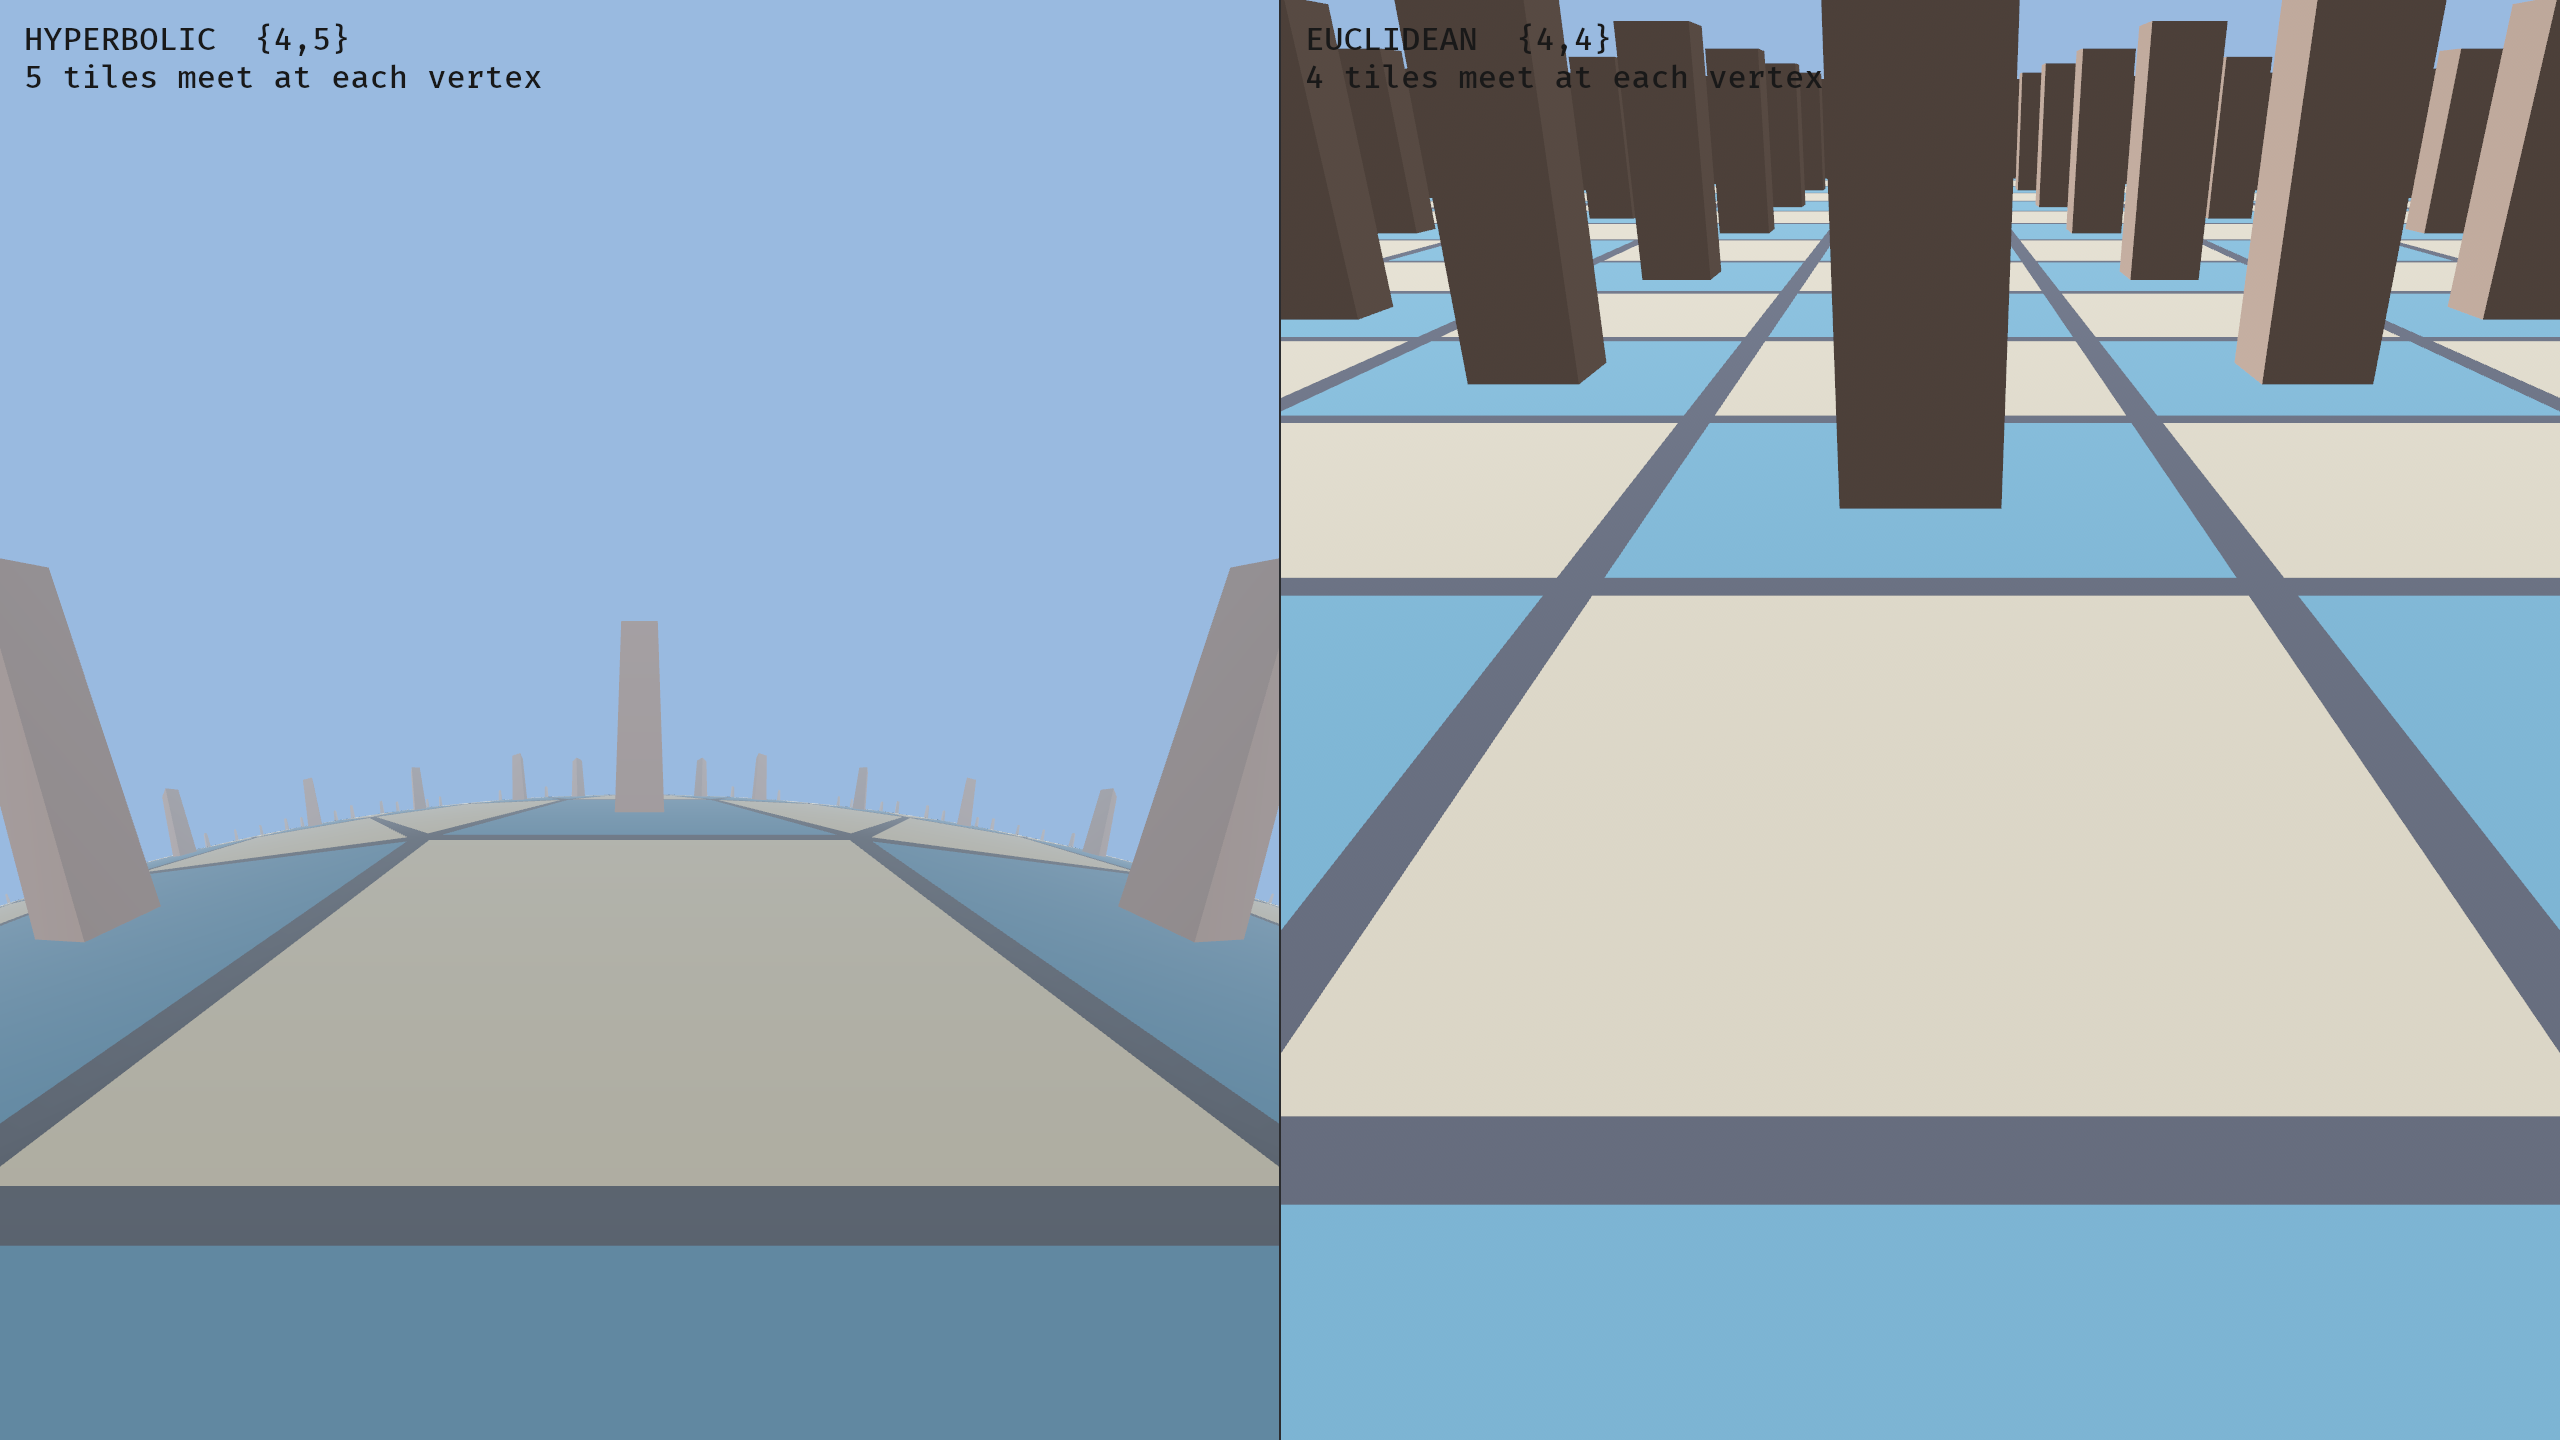
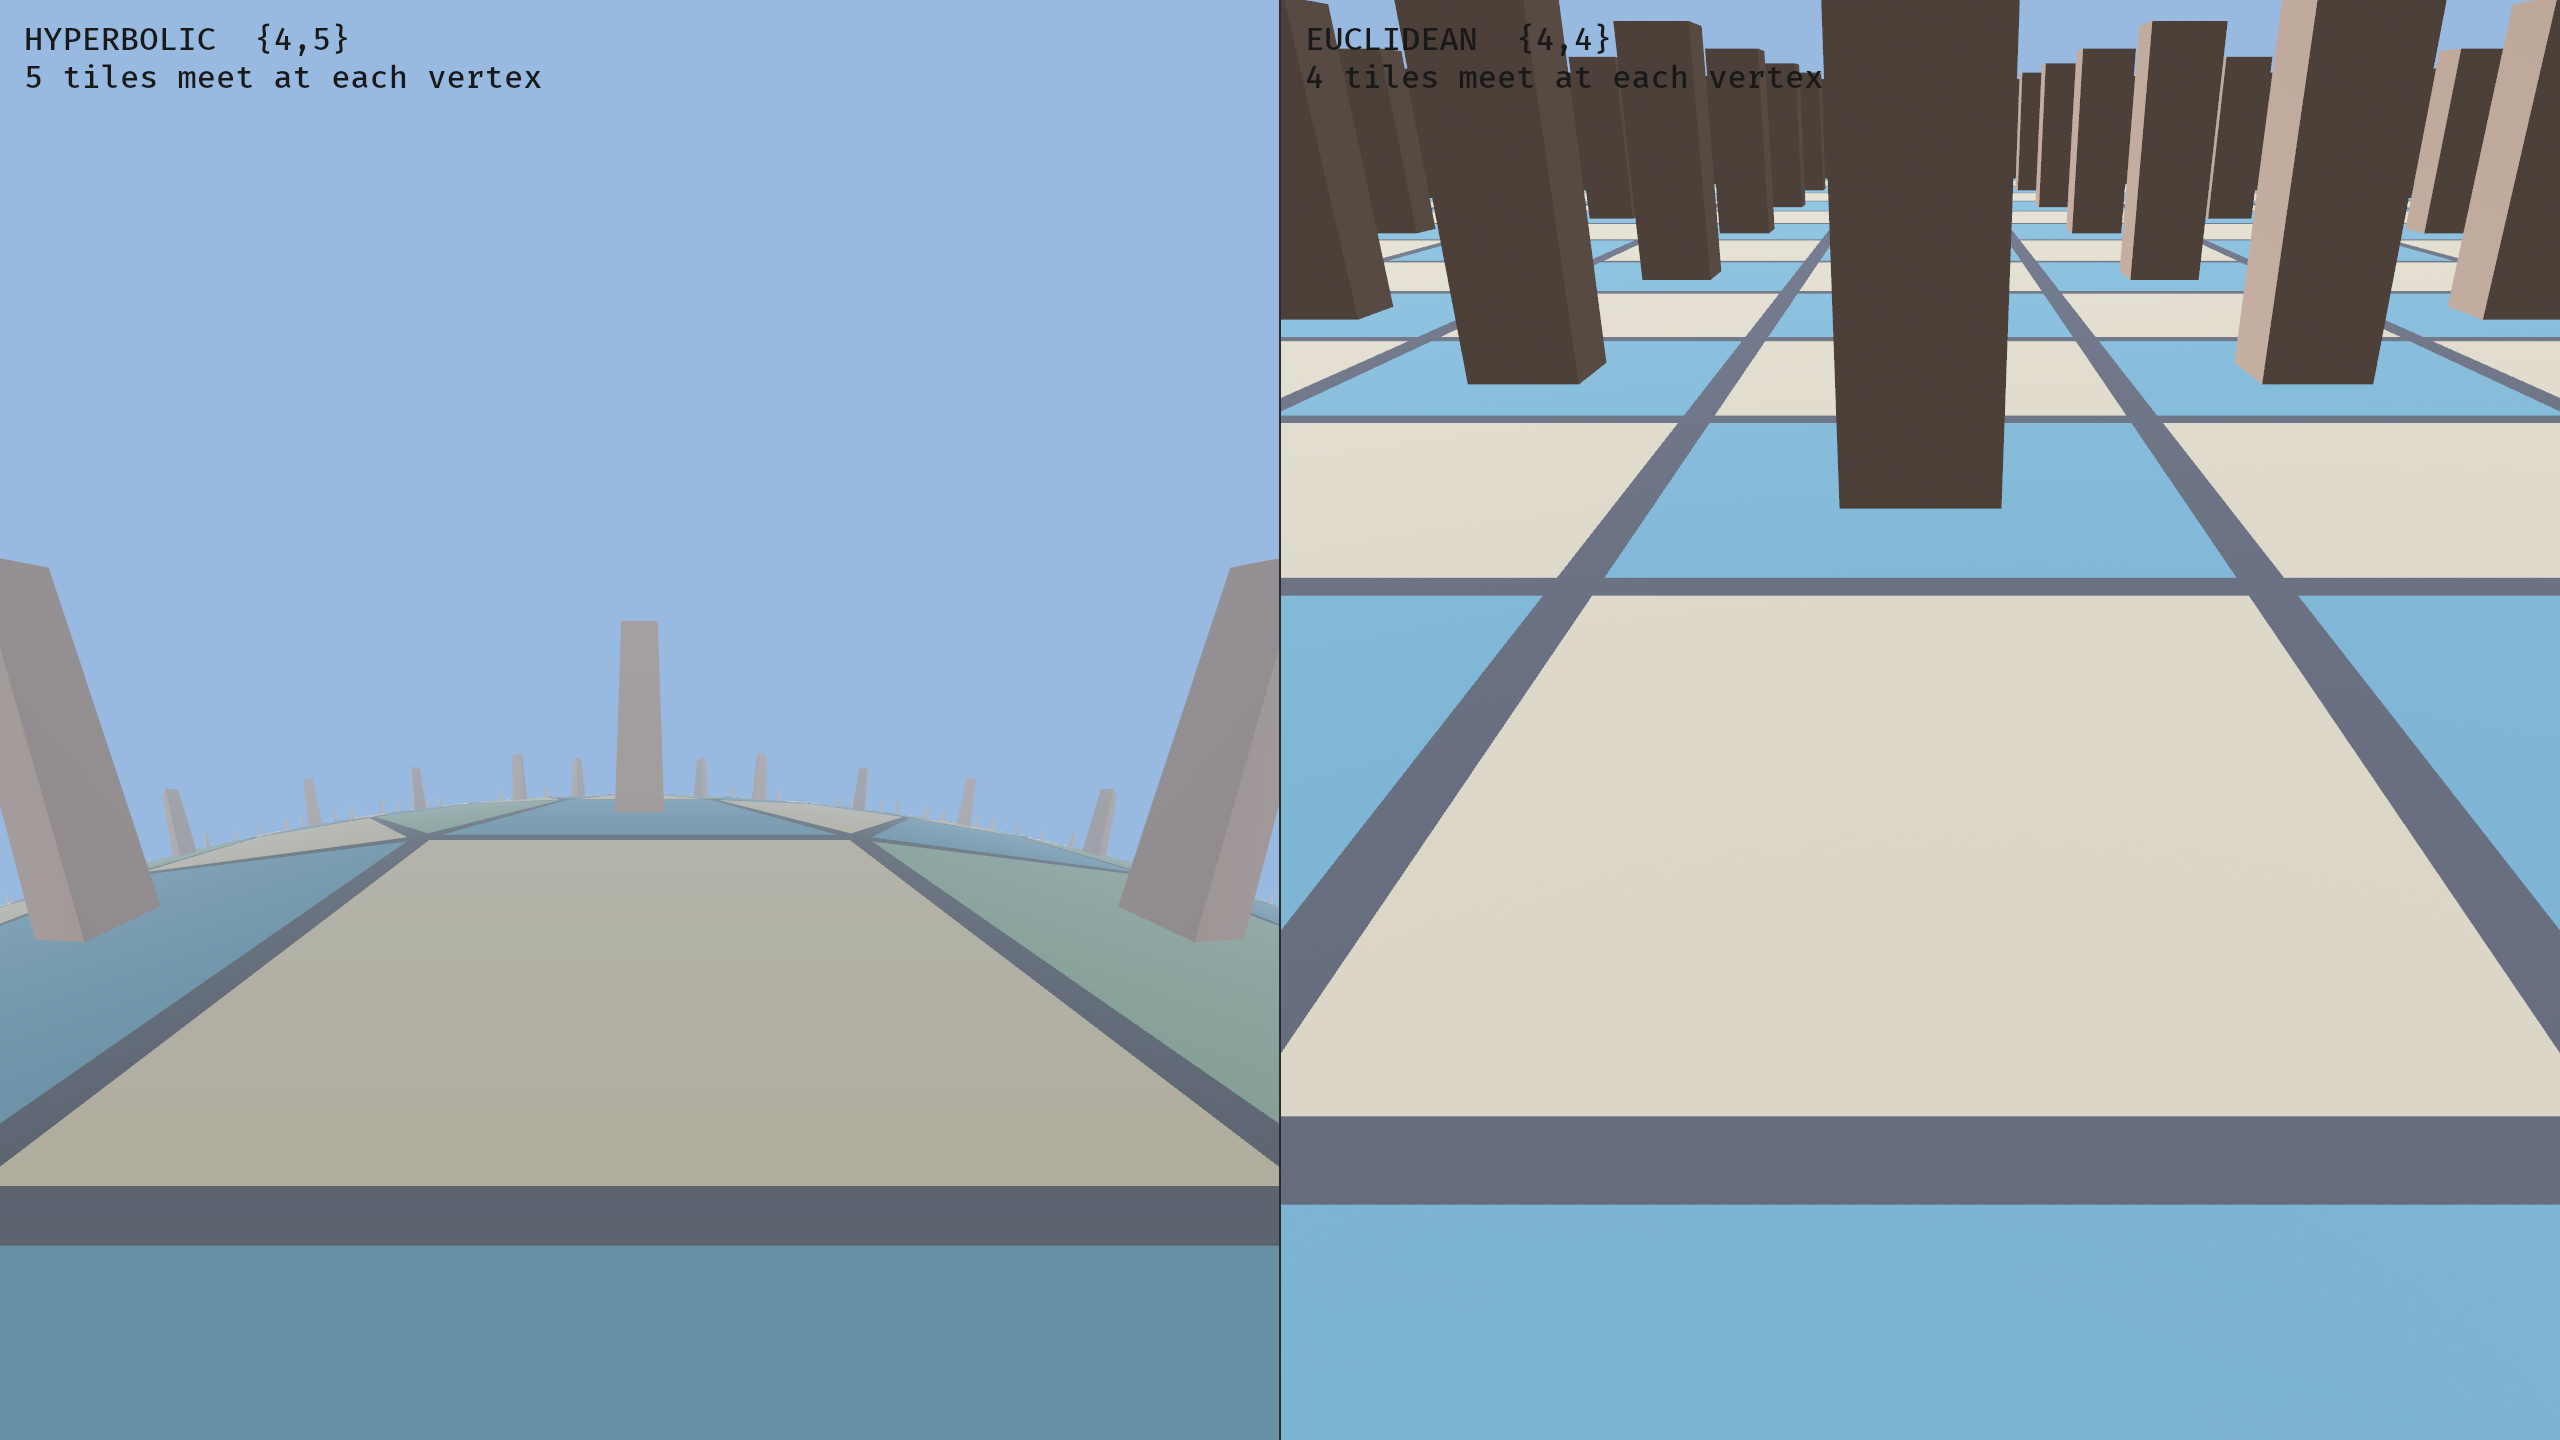
Color floor by proper greedy graph-coloring (3-4 colors)
The {4,5} tiling has an odd 5-cycle of tiles around every vertex, so it is not
2-colorable — the old ring-parity scheme let edge-adjacent tiles share a color.
Build the edge-adjacency during the tile BFS and greedily assign each tile the
lowest color not used by an already-colored neighbor; this settles into 3 colors
here. Add a 5-color palette and a coloring_is_proper test (no adjacent tiles
share a color; 3-4 colors used). The flat Euclidean {4,4} floor stays a correct
2-color checkerboard.

Changed region(s): [[0.3438, 0.5625, 0.5, 0.7812], [0.1875, 0.5312, 0.2188, 0.5625], [0.1562, 0.5625, 0.1875, 0.5938]]

diff --git a/src/world.rs b/src/world.rs
@@ -36,6 +36,16 @@ const TILE_INSET: f32 = 0.93;
 /// Border / grout color.
 const GROUT: [f32; 4] = [0.05, 0.06, 0.09, 1.0];
 
+/// Floor colors, indexed by the per-tile graph-coloring. Five entries is enough
+/// for any greedy coloring of this degree-4 graph; in practice only 3–4 are used.
+const FLOOR_PALETTE: [[f32; 4]; 5] = [
+    [0.13, 0.42, 0.60, 1.0], // blue
+    [0.82, 0.74, 0.52, 1.0], // tan
+    [0.34, 0.55, 0.40, 1.0], // sage green
+    [0.72, 0.44, 0.34, 1.0], // terracotta
+    [0.46, 0.38, 0.56, 1.0], // plum
+];
+
 /// Inradius (center → edge midpoint) and circumradius (center → vertex) of a
 /// regular {P,Q} tile, from the right-triangle relations of the (2,P,Q) triangle.
 fn tile_radii() -> (f32, f32) {
@@ -48,50 +58,84 @@ fn tile_radii() -> (f32, f32) {
     (inradius, circumradius)
 }
 
-/// All the tile transforms (Lorentz matrices mapping the fundamental tile to
-/// each tile), discovered by reflecting across tile edges. Each returned value
-/// is `(transform, ring)` where `ring` is the BFS depth (used for coloring).
-fn generate_tiles() -> Vec<(Mat4, u32)> {
+/// The four edge-reflection generators of the {P,Q} tiling. The neighbor of a
+/// tile `m` across its k-th edge is the tile `m * generators[k]`.
+fn edge_generators() -> Vec<Mat4> {
     let (inradius, _) = tile_radii();
-
     // Reflection across the tile edge whose midpoint is distance `inradius`
     // along +x: translate the edge to the origin plane, flip x, translate back.
     let reflect_edge0 = h::boost_x(inradius) * h::reflect_x() * h::boost_x(-inradius);
-    // The four edge reflections, one per side of the square.
-    let generators: Vec<Mat4> = (0..P)
+    (0..P)
         .map(|k| {
             let a = k as f32 * 2.0 * PI / P as f32;
             h::rot_y(a) * reflect_edge0 * h::rot_y(-a)
         })
-        .collect();
+        .collect()
+}
 
-    let mut tiles = vec![(Mat4::IDENTITY, 0u32)];
-    let mut seen: Vec<Vec3> = vec![Vec3::ZERO];
-    let mut queue: VecDeque<(Mat4, u32)> = VecDeque::new();
-    queue.push_back((Mat4::IDENTITY, 0));
+/// All tiles, discovered by reflecting across edges, then *properly* colored by
+/// greedy graph-coloring over the edge-adjacency graph: each tile gets the
+/// lowest color index not used by any already-colored edge-neighbor. Because
+/// every vertex is surrounded by an odd (5-) cycle of tiles, the tiling is not
+/// 2-colorable; this naturally settles into 3–4 colors. Returns
+/// `(transform, ring, color)` per tile (ring is the BFS depth, used for pillars).
+fn generate_tiles() -> Vec<(Mat4, u32, usize)> {
+    let generators = edge_generators();
 
-    let is_new = |seen: &Vec<Vec3>, c: Vec3| !seen.iter().any(|s| s.distance_squared(c) < 1e-4);
+    // Breadth-first discovery of tile transforms.
+    let mut mats = vec![Mat4::IDENTITY];
+    let mut rings = vec![0u32];
+    let mut centers = vec![Vec3::ZERO];
+    let mut queue: VecDeque<usize> = VecDeque::new();
+    queue.push_back(0);
 
-    while let Some((m, ring)) = queue.pop_front() {
-        if tiles.len() >= MAX_TILES {
+    let find = |centers: &Vec<Vec3>, c: Vec3| {
+        centers.iter().position(|s| s.distance_squared(c) < 1e-4)
+    };
+
+    while let Some(idx) = queue.pop_front() {
+        if mats.len() >= MAX_TILES {
             break;
         }
+        let (m, ring) = (mats[idx], rings[idx]);
         for g in &generators {
-            let m2 = m * *g;
-            let center = m2 * h::origin();
+            let center = m * *g * h::origin();
             // Geodesic distance from the world origin is acosh(w).
             if center.w.acosh() > MAX_DIST {
                 continue;
             }
             let c3 = center.truncate();
-            if is_new(&seen, c3) {
-                seen.push(c3);
-                tiles.push((m2, ring + 1));
-                queue.push_back((m2, ring + 1));
+            if find(&centers, c3).is_none() {
+                let new_idx = mats.len();
+                mats.push(m * *g);
+                rings.push(ring + 1);
+                centers.push(c3);
+                queue.push_back(new_idx);
             }
         }
     }
-    tiles
+
+    // Edge adjacency, then greedy coloring in BFS order.
+    let n = mats.len();
+    let mut colors = vec![usize::MAX; n];
+    for i in 0..n {
+        let mut used = [false; 8];
+        for g in &generators {
+            let c = (mats[i] * *g * h::origin()).truncate();
+            if let Some(j) = find(&centers, c) {
+                if j != i && colors[j] != usize::MAX {
+                    used[colors[j]] = true;
+                }
+            }
+        }
+        let mut c = 0;
+        while used[c] {
+            c += 1;
+        }
+        colors[i] = c;
+    }
+
+    (0..n).map(|i| (mats[i], rings[i], colors[i])).collect()
 }
 
 /// Accumulates triangles whose vertex positions are hyperboloid spatial coords.
@@ -154,11 +198,10 @@ pub fn build_world_mesh() -> Mesh {
 
     let mut b = MeshBuilder::new();
 
-    // Two-tone checkerboard floor; tile shade keyed on BFS-ring parity.
-    let floor_a = [0.09, 0.34, 0.55, 1.0];
-    let floor_b = [0.80, 0.74, 0.55, 1.0];
+    let ncolors = tiles.iter().map(|t| t.2).max().unwrap_or(0) + 1;
+    info!("floor uses {} colors (proper graph-coloring)", ncolors);
 
-    for (m, ring) in &tiles {
+    for (m, ring, color) in &tiles {
         // Outer corners at the circumradius; inner corners pulled toward the
         // tile center to leave room for the border.
         let corner = |r: f32| -> Vec<Vec4> {
@@ -172,7 +215,7 @@ pub fn build_world_mesh() -> Mesh {
         let outer = corner(circumradius);
         let inner = corner(circumradius * TILE_INSET);
 
-        let base = if ring % 2 == 0 { floor_a } else { floor_b };
+        let base = FLOOR_PALETTE[*color % FLOOR_PALETTE.len()];
         b.bordered(&outer, &inner, base, GROUT);
 
         // Put a pillar on every other tile so the world has vertical structure
@@ -351,5 +394,32 @@ mod tests {
                 .count();
             assert_eq!(shared, 2, "edge {k}: expected 2 shared corners, got {shared}");
         }
+    }
+
+    /// The greedy coloring must be proper: no two edge-adjacent tiles share a
+    /// color. Also confirm it uses 3–4 colors (it cannot be 2, since the tiling
+    /// has odd cycles around every vertex).
+    #[test]
+    fn coloring_is_proper() {
+        let tiles = generate_tiles();
+        let generators = edge_generators();
+        let centers: Vec<(Vec3, usize)> = tiles
+            .iter()
+            .map(|(m, _, c)| ((*m * h::origin()).truncate(), *c))
+            .collect();
+
+        for (m, _, c) in &tiles {
+            for g in &generators {
+                let nc = (*m * *g * h::origin()).truncate();
+                if let Some((_, ncolor)) =
+                    centers.iter().find(|(p, _)| p.distance_squared(nc) < 1e-4)
+                {
+                    assert_ne!(*c, *ncolor, "edge-adjacent tiles share a color");
+                }
+            }
+        }
+
+        let used = tiles.iter().map(|t| t.2).max().unwrap() + 1;
+        assert!((3..=4).contains(&used), "expected 3-4 colors, used {used}");
     }
 }